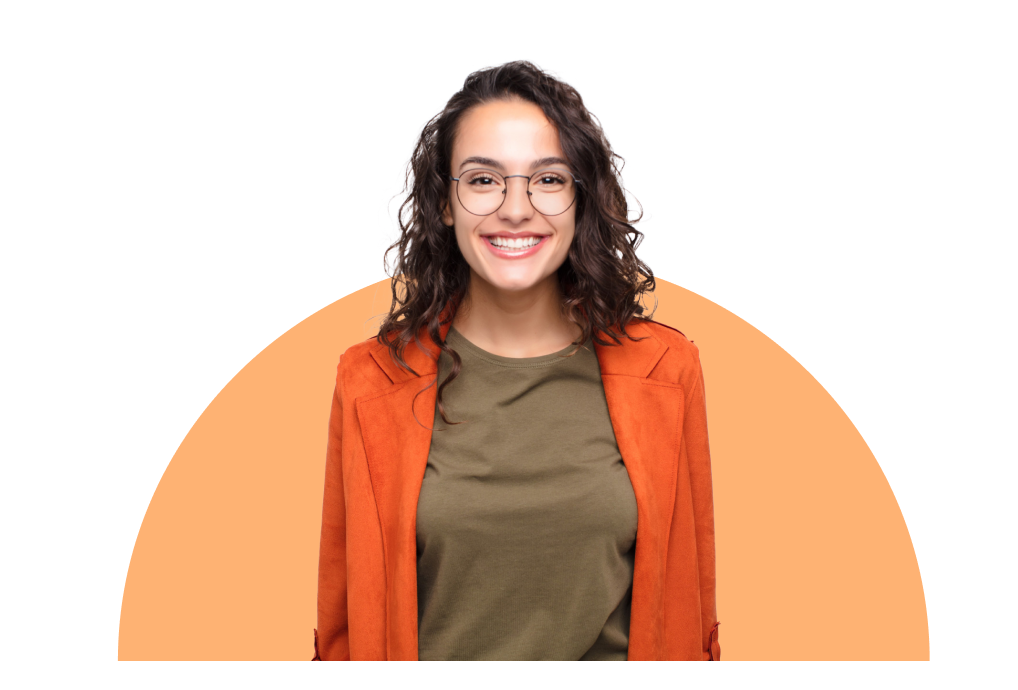
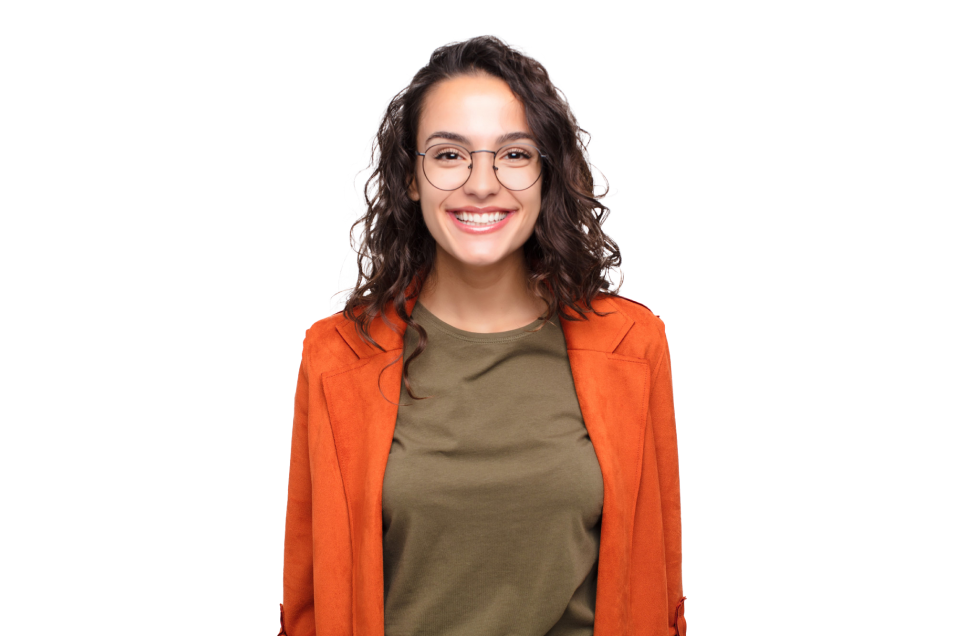
chore: hero sand form changes

Changed region(s): [[0.0912, 0.0597, 0.9119, 1.0], [0.456, 0.6871, 0.5776, 0.7767], [0.5472, 0.6572, 0.5776, 0.6871]]

diff --git a/src/components/VHero.vue b/src/components/VHero.vue
@@ -11,30 +11,16 @@ const handleClick = () => emit('scroll-to-hire-section')
 
 <template>
   <div class="hero">
-    <div class="btn-container">
-      <div class="hero-btn">Hello!</div>
-      <div class="btn-decor">
-        <img src="@/assets/img/hero/btn-decor.png" alt="decor" />
-      </div>
-    </div>
-    <div class="title-container">
-      <h1 class="hero-title">
-        I’m <span class="text-color-accent">Jenny</span>,<br />Product Designer
-      </h1>
-      <div class="title-decor">
-        <img src="@/assets/img/hero/title-decor.png" alt="decor" />
-      </div>
-    </div>
-
+    <a href="#!" class="hero-btn">Hello!</a>
+    <h1 class="hero-title">
+      I’m <span class="text-color-accent">Jenny</span>,<br />Product Designer
+    </h1>
     <div class="hero-info">
-      <div class="ihero-info__icon">
-        <img src="@/assets/img/hero/info-icon.png" alt="decor" />
-      </div>
+      <img src="@/assets/img/hero/info-icon.png" alt="decor" />
       <div class="hero-info__text">
         Jenny’s Exceptional product designensure our website’s success. Highly Recommended
       </div>
     </div>
-
     <div class="hero-exp">
       <div class="hero-exp__stars">
         <img src="@/assets/img/hero/exp-icon.png" alt="stars" />
@@ -42,9 +28,12 @@ const handleClick = () => emit('scroll-to-hire-section')
       <div class="hero-exp__text">10 Years</div>
       <div class="hero-exp__under-text">Experince</div>
     </div>
-
-    <div class="hero-img">
-      <img src="@/assets/img/hero/hero-img.png" alt="hero-img" />
+    <div class="hero-content">
+      <div class="hero-img">
+        <img src="@/assets/img/hero/hero-img.png" alt="hero-img" />
+      </div>
+      <div class="hero-img-decor" />
+      <div class="hero-img-circle" />
     </div>
     <div class="hero-toggle">
       <VToggle @hamdeClick="handleClick" />
@@ -59,12 +48,12 @@ const handleClick = () => emit('scroll-to-hire-section')
   padding-top: 50px;
   display: flex;
   align-items: center;
-  // justify-content: center;
   flex-direction: column;
   margin-top: 130px;
 }
 
 .hero-btn {
+  position: relative;
   padding: 10px 25px;
   color: $gray;
   font-weight: 500;
@@ -73,8 +62,19 @@ const handleClick = () => emit('scroll-to-hire-section')
   margin-bottom: 10px;
   transition: all 0.2s ease;
 
-  :hover {
+  &:hover {
     background-color: $accent;
+  }
+
+  &::before {
+    content: '';
+    position: absolute;
+    right: -25px;
+    top: -22px;
+    width: 28px;
+    height: 28px;
+    background-image: url(@/assets/img/hero/btn-decor.png);
+    background-size: cover;
   }
 }
 
@@ -82,29 +82,23 @@ const handleClick = () => emit('scroll-to-hire-section')
   position: relative;
 }
 
-.btn-container {
-  position: relative;
-  max-width: 500px;
-}
-
 .hero-title {
+  position: relative;
   font-family: $font-second;
   font-size: 95px;
   line-height: 100%;
   text-align: center;
-}
 
-.title-decor {
-  position: absolute;
-  left: -9%;
-  top: 82%;
-}
-
-.btn-decor {
-  position: absolute;
-  right: 0%;
-  top: 0%;
-  transform: translate(70%, -80%);
+  &::before {
+    content: '';
+    position: absolute;
+    left: -70px;
+    bottom: -40px;
+    width: 75px;
+    height: 75px;
+    background-image: url(@/assets/img/hero/title-decor.png);
+    background-size: cover;
+  }
 }
 
 .hero-info {
@@ -146,14 +140,49 @@ const handleClick = () => emit('scroll-to-hire-section')
   }
 }
 
+.hero-content {
+  position: relative;
+}
 .hero-img {
+  position: relative;
   z-index: 10;
-  margin-top: -114px;
+  bottom: 88px;
+}
+
+.hero-img-decor {
+  position: absolute;
+  left: 0px;
+  top: -133px;
+  width: 1000px;
+  height: 680px;
+  background-image: url(@/assets/img/hero/hero-img-decor.png);
+  background-size: cover;
+  z-index: 9;
+  opacity: 0;
+  transition: opacity 0.5s ease;
+}
+
+.hero-img-circle {
+  &::after {
+    position: absolute;
+    content: '';
+    height: 810px;
+    width: 810px;
+    background-color: #feb273;
+    top: 100px;
+    left: 78px;
+    border-radius: 100%;
+  }
 }
 
 .hero-toggle {
   z-index: 20;
   position: absolute;
   bottom: 5%;
+}
+
+.hero-content:hover .hero-img-decor,
+.hero-toggle:hover .hero-img-decor {
+  opacity: 1;
 }
 </style>

diff --git a/src/components/VResults.vue b/src/components/VResults.vue
@@ -79,7 +79,7 @@ const slides = [
 </template>
 <style scoped lang="scss">
 .results {
-  background-image: url(../assets/img/serv/serv-bg.jpg);
+  background-image: url(@/assets/img/serv/serv-bg.jpg);
   background-repeat: no-repeat;
   background-size: cover;
   padding: 120px 0 50px;
@@ -102,7 +102,7 @@ const slides = [
     top: -15px;
     right: 0;
     color: #fff;
-    background-image: url(../assets/img/results/decor/decor-title-img.png);
+    background-image: url(@/assets/img/results/decor/decor-title-img.png);
     background-repeat: no-repeat;
   }
 }
@@ -123,7 +123,7 @@ const slides = [
     bottom: -15px;
     left: -10px;
     color: #fff;
-    background-image: url(../assets/img/results/decor/decor-subtitle-left-img.png);
+    background-image: url(@/assets/img/results/decor/decor-subtitle-left-img.png);
     background-repeat: no-repeat;
   }
 
@@ -135,7 +135,7 @@ const slides = [
     top: -15px;
     right: -20px;
     color: #fff;
-    background-image: url(../assets/img/results/decor/decor-subtitle-right-img.png);
+    background-image: url(@/assets/img/results/decor/decor-subtitle-right-img.png);
     background-repeat: no-repeat;
   }
 }
@@ -190,7 +190,7 @@ const slides = [
   top: 0;
   width: 8rem;
   height: 8rem;
-  background-image: url(../assets/img/results/decor/card-decor-img.png);
+  background-image: url(@/assets/img/results/decor/card-decor-img.png);
 }
 
 .card-text {

diff --git a/src/components/VDiscuss.vue b/src/components/VDiscuss.vue
@@ -10,11 +10,17 @@ import VTicker from '@/components/ui/VTicker.vue'
       Have an Awsome Project<br />
       Idea? <span class="text-color-accent">Let’s Discuss</span>
     </h1>
-    <div class="discuss-input">
+    <form class="discuss-input">
       <img src="@/assets/img/disc/input-icon.png" alt="input-icon" />
-      <input placeholder="Enter Email Address" />
+      <input
+        placeholder="Enter Email Address"
+        type="email"
+        name="email"
+        id="email"
+        autocomplete="on"
+      />
       <a class="discuss-btn" href="#">Send</a>
-    </div>
+    </form>
     <div class="under-input">
       <div class="under-input__tag">
         <starIcon />

diff --git a/src/components/VServices.vue b/src/components/VServices.vue
@@ -105,11 +105,12 @@ const slides = [
 <style scoped lang="scss">
 .services {
   position: relative;
-  background-image: url(../assets/img/serv/serv-bg.jpg);
+  background-image: url(@/assets/img/serv/serv-bg.jpg);
   background-repeat: no-repeat;
   background-size: cover;
   padding: 120px 0 50px;
   overflow: hidden;
+  border-radius: 3rem;
 }
 
 .services-info {

diff --git a/src/App.vue b/src/App.vue
@@ -11,7 +11,6 @@ import VFooter from '@/components/VFooter.vue'
 import { ref } from 'vue'
 import type { Ref } from 'vue'
 
-
 const scrollTo: Ref<HTMLElement | null> = ref(null)
 
 const scrollToHireSection = () => {

diff --git a/src/components/VHeader.vue b/src/components/VHeader.vue
@@ -32,7 +32,7 @@
 }
 
 .header-content {
-  margin-top: 40px;
+  margin-top: 20px;
   background-color: $gray;
   color: $white;
   display: flex;

diff --git a/src/assets/styles/main.scss b/src/assets/styles/main.scss
@@ -16,5 +16,3 @@ body {
   font-family: $font-main;
   font-size: 20px;
 }
-
-
